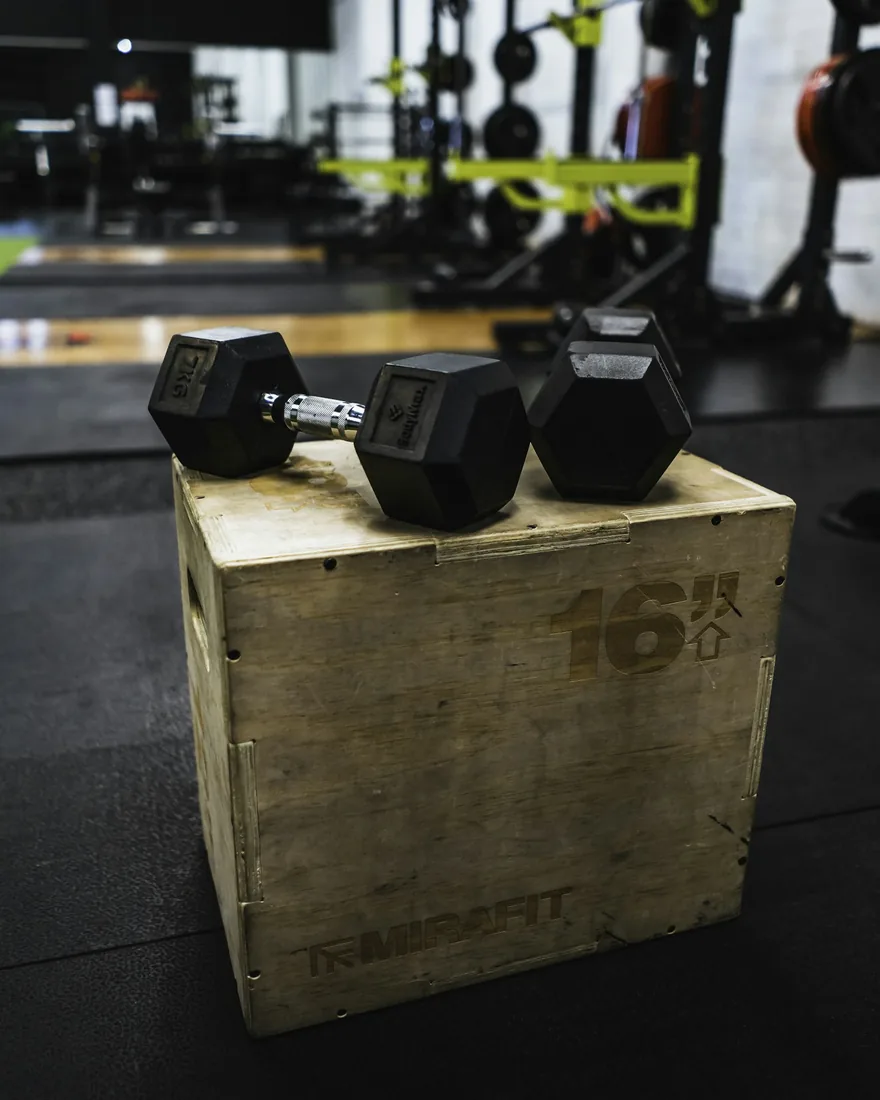
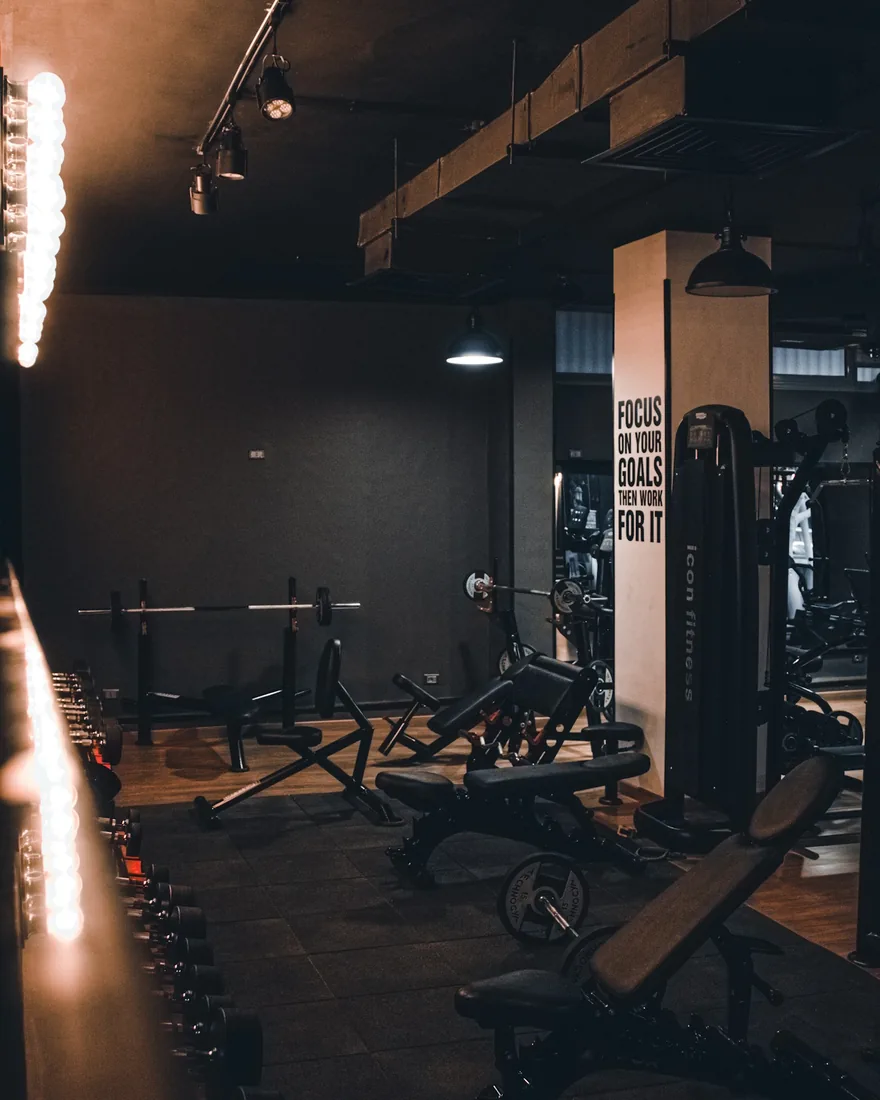
Nouvelles photos cuisine et muscu, titre 03 sur une ligne, point du titre 05 collé au mot

diff --git a/index.html b/index.html
@@ -28,7 +28,7 @@
 <link rel="preload" as="style" href="https://fonts.googleapis.com/css2?family=Fraunces:ital,opsz,wght@0,9..144,400;0,9..144,600;0,9..144,900;1,9..144,600;1,9..144,900&family=Instrument+Sans:ital,wght@0,400;0,500;0,600;1,400&family=Caveat:wght@600&display=swap" onload="this.rel='stylesheet'">
 <noscript><link rel="stylesheet" href="https://fonts.googleapis.com/css2?family=Fraunces:ital,opsz,wght@0,9..144,400;0,9..144,600;0,9..144,900;1,9..144,600;1,9..144,900&family=Instrument+Sans:ital,wght@0,400;0,500;0,600;1,400&family=Caveat:wght@600&display=swap"></noscript>
 <link rel="preload" as="image" href="assets/realisations/enderjeta-portrait.jpg">
-<link rel="stylesheet" href="style.css?v=53">
+<link rel="stylesheet" href="style.css?v=54">
 
 <!-- Mesure d'audience : PostHog sans cookie (persistance en mémoire), chargé après idle. Pas de bandeau nécessaire. -->
 <script>
@@ -320,9 +320,8 @@
     <span class="chapter__num" aria-hidden="true">03</span>
     <div class="chapter__head-text">
       <div class="chapter__marker"><span data-en="Write">Écrire</span></div>
-      <h2 class="chapter__title" data-en='I write like<br>I <span class="italic">speak</span>.'>
-    J'écris comme<br>
-    je <span class="italic">parle</span>.
+      <h2 class="chapter__title chapter__title--line" data-en='I write like I <span class="italic">speak</span>.'>
+    J'écris comme je <span class="italic">parle</span>.
   </h2>
     </div>
   </div>
@@ -1508,6 +1507,19 @@
         }
       });
       parent.replaceChild(frag, textNode);
+    });
+    title.querySelectorAll('.word').forEach(w => {
+      if (!/^[.,;:!?…]+$/.test(w.textContent)) return;
+      const prev = w.previousSibling;
+      if (!prev || prev.nodeType !== 1) return;
+      const words = prev.classList.contains('word') ? [prev] : prev.querySelectorAll('.word');
+      const target = words.length && words[words.length - 1].firstElementChild;
+      if (!target) return;
+      const p = document.createElement('span');
+      p.className = 'word__punct';
+      p.textContent = w.textContent;
+      target.appendChild(p);
+      w.remove();
     });
   };
   document.querySelectorAll('.chapter__title').forEach(splitWords);

diff --git a/mentions-legales.html b/mentions-legales.html
@@ -9,7 +9,7 @@
 <link rel="preconnect" href="https://fonts.googleapis.com">
 <link rel="preconnect" href="https://fonts.gstatic.com" crossorigin>
 <link href="https://fonts.googleapis.com/css2?family=Fraunces:ital,opsz,wght@0,9..144,400;0,9..144,600;0,9..144,900;1,9..144,600;1,9..144,900&family=Instrument+Sans:ital,wght@0,400;0,500;0,600;1,400&display=swap" rel="stylesheet">
-<link rel="stylesheet" href="style.css?v=52">
+<link rel="stylesheet" href="style.css?v=54">
 <style>
 .legal {
   max-width: 780px;
@@ -166,7 +166,7 @@ body { padding-top: 0 !important; }
   <p>Les textes, la structure, la mise en page et les visuels signés « Enderjeta Sahitaj » sont ma création personnelle et restent ma propriété. Les logos, images et marques de tiers (ITGREEN, PC@9, GREENLEO, ABK Rénov', Le PréO Scène, Adestan &amp; Kaetera, Figures Publiques, etc.) restent la propriété de leurs détenteurs et sont reproduits dans le cadre de la présentation de projets professionnels.</p>
   <p>Toute reproduction ou réutilisation d'un contenu du site nécessite un accord écrit préalable&nbsp;: <a href="mailto:enderjeta.sahitaj@gmail.com">enderjeta.sahitaj@gmail.com</a>.</p>
 
-  <p>Photos de la carte à gratter du haut de page&nbsp;: Bejka, photo personnelle&nbsp;; cuisine, Loes Klinker&nbsp;; musculation, Samuel Girven&nbsp;; boxe, Rocco Stoppoloni&nbsp;; voyage, Sasha Freemind. Ces quatre photos viennent d'Unsplash et sont utilisées sous la licence Unsplash.</p>
+  <p>Photos de la carte à gratter du haut de page&nbsp;: Bejka, photo personnelle&nbsp;; cuisine, Gaelle Marcel&nbsp;; musculation, Mohamed Fareed&nbsp;; boxe, Rocco Stoppoloni&nbsp;; voyage, Sasha Freemind. Ces quatre photos viennent d'Unsplash et sont utilisées sous la licence Unsplash.</p>
   <h2>Données personnelles (RGPD)</h2>
   <p>Ce site collecte deux types de données personnelles.</p>
 

diff --git a/style.css b/style.css
@@ -4569,3 +4569,8 @@ button.video-credits__soon:hover { color: var(--ink); padding-left: 8px; }
 @media (min-width: 901px) and (max-width: 1080px) {
   .nav__cta { display: none; }
 }
+
+/* Ponctuation rangée dans le mot en italique : elle garde le style du titre */
+.chapter__title .word__punct { font-style: normal; font-weight: 900; color: var(--ink); }
+/* Titre qui tient toujours sur une ligne */
+.chapter__head .chapter__title--line { white-space: nowrap; font-size: min(clamp(40px, 6.4vw, 92px), 7.6vw); }
